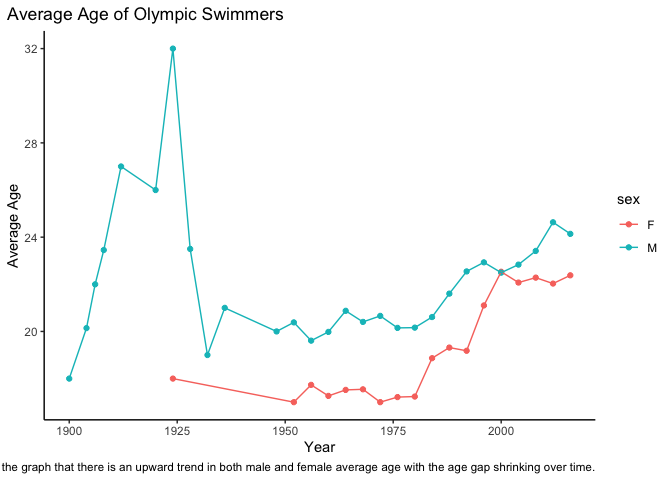
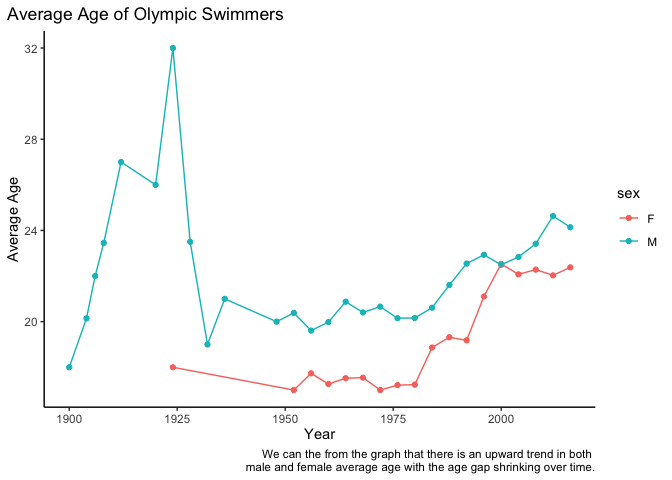
done

diff --git a/Patrick/Q2+3.md b/Patrick/Q2+3.md
@@ -75,6 +75,4 @@ Fours which had a standard deviation of 10.87.
 the 1952 Olympic Games, there appears to be a small number of
 participants for each year which is causing the large swings early on.
 After 1952 the amount of participating athletes becomes larger and
-stabilizes the mean of the age of the participants. We can the from the
-graph that there is an upward trend in both male and female average age
-with the age gap shrinking over time.
+stabilizes the mean of the age of the participants.
